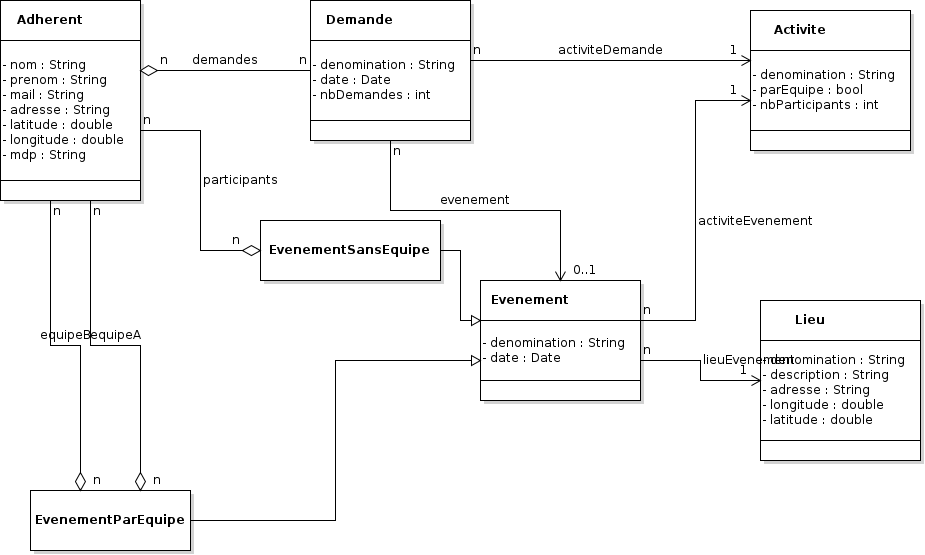
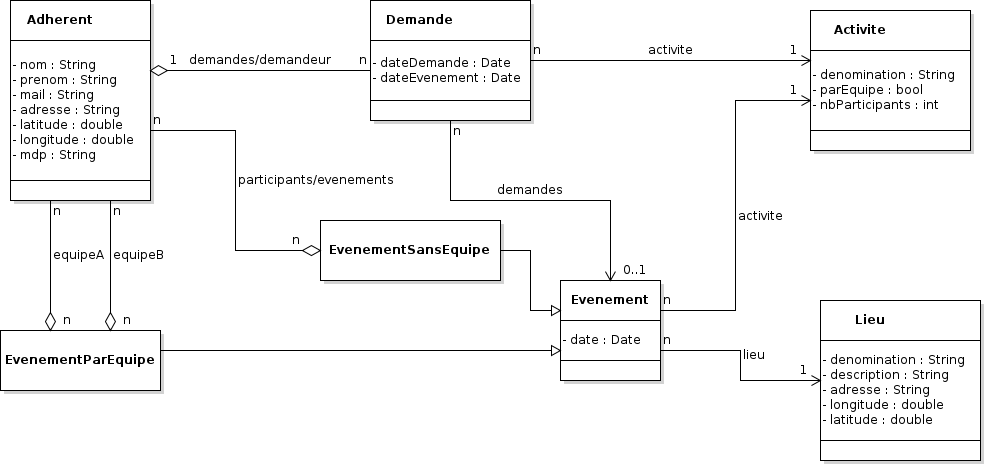
Update

diff --git a/Collectif/src/main/java/modele/Demande.java b/Collectif/src/main/java/modele/Demande.java
@@ -13,9 +13,8 @@ public class Demande implements Serializable {
     @Id
     @GeneratedValue(strategy = GenerationType.AUTO)
     private Integer id;
-    private String denomination;
     private Date dateDemande;
-    private Integer nbDemandes;
+    private Date dateEvenement;
     
     @ManyToOne
     private Activite activite;
@@ -26,43 +25,52 @@ public class Demande implements Serializable {
     public Demande() {
     }
 
-    public Demande(String denomination, Date date, Integer nbDemandes) {
-        this.denomination = denomination;
-        this.dateDemande = date;
-        this.nbDemandes = nbDemandes;
+    public Demande(Date dateDemande, Date dateEvenement, Activite activite, Adherent demandeur) {
+        this.dateDemande = dateDemande;
+        this.dateEvenement = dateEvenement;
+        this.activite = activite;
+        this.demandeur = demandeur;
     }
 
     public Integer getId() {
         return id;
     }
-
-    public String getDenomination() {
-        return denomination;
-    }
     
-    public Date getDate() {
+    public Date getDateDemande() {
         return dateDemande;
     }
-
-    public Integer getNbDemandes() {
-        return nbDemandes;
-    }
-
-    public void setDenomination(String denomination) {
-        this.denomination = denomination;
+    
+    public Date getDateEvenement() {
+        return dateEvenement;
     }
     
-    public void setDate(Date date) {
-        this.dateDemande = date;
+    public Activite getActivite() {
+        return activite;
     }
-
-    public void setNbDemandes(Integer nbDemandes) {
-        this.nbDemandes = nbDemandes;
+    
+    public Adherent getDemandeur() {
+        return demandeur;
+    }
+    
+    public void setDateDemande(Date dateDemande) {
+        this.dateDemande = dateDemande;
+    }
+    
+    public void setDateEvenement(Date dateEvenement) {
+        this.dateDemande = dateEvenement;
+    }
+    
+    public void setActivite(Activite activite) {
+        this.activite = activite;
+    }
+    
+    public void setDemandeur(Adherent demandeur) {
+        this.demandeur = demandeur;
     }
 
     @Override
     public String toString() {
-        return "Activite{" + "id=" + id + ", denomination=" + denomination + ", nbDemandes=" + nbDemandes + ", Date=" + dateDemande.toString() + '}';
+        return "Activite{" + "id=" + id + ", DateDemande=" + dateDemande.toString() + ", DateEvenement="+ dateEvenement.toString() + activite.toString() + demandeur.toString() + '}';
     }
        
 }

diff --git a/Collectif/src/main/java/modele/Evenement.java b/Collectif/src/main/java/modele/Evenement.java
@@ -30,9 +30,10 @@ public class Evenement implements Serializable {
     public Evenement() {
     }
 
-    public Evenement(String denomination, Date date, Integer nbDemandes) {
+    public Evenement(String denomination, Date date, Lieu lieu, Activite activite, List<Demande> demandes) {
         this.denomination = denomination;
         this.dateEvenement = date;
+        
     }
 
     public Integer getId() {

diff --git a/Collectif/src/main/java/modele/TODO.md b/Collectif/src/main/java/modele/TODO.md
@@ -1,0 +1,1 @@
+ Refaire Set, Get, et ToString des classes Adherent, Evenement et ses enfants. Faire DAO après.
